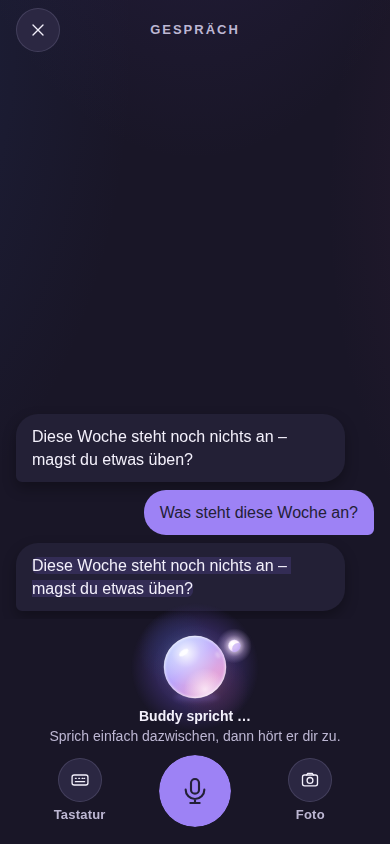
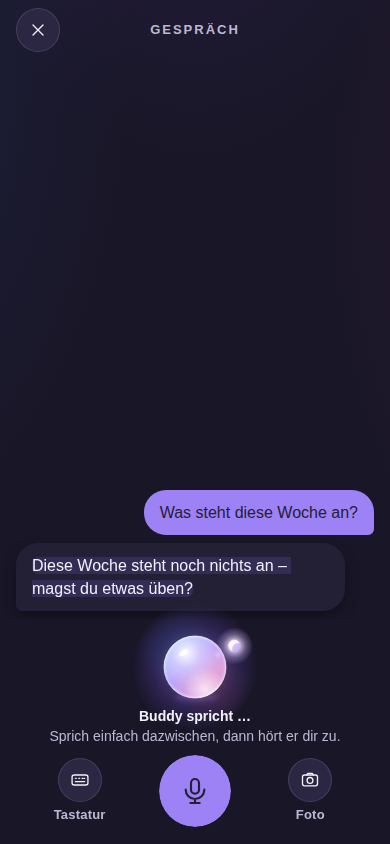
Screenshots neu: ein Austausch je Größe und Schema, Reinreden auch dunkel (#35, #41)
Claude-Session: https://claude.ai/code/session_01NuVQ4JtXgVp4yQWSokLiKq

Changed region(s): [[0.0923, 0.4929, 0.7077, 0.5545]]

diff --git a/shots/README.md b/shots/README.md
@@ -1,17 +1,15 @@
 # Screenshots — Barge-in und Sprach-Latenz (#35, #41)
 
-Aus `tests/web/talk-voice.spec.ts` und `tests/web/talk-barge.spec.ts` (Web-Walkthrough,
-echte App gegen den Dev-Stack), 390×844 und 360×740, hell und dunkel. `composite.png` zeigt
-alle nebeneinander.
+Aus `tests/web/talk-barge.spec.ts` (Web-Walkthrough, echte App gegen den Dev-Stack): je
+Telefon (390×844, 360×740) und Farbschema (hell, dunkel) eine eigene Lernerin mit genau einem
+Austausch — kein doppelter Verlauf. `composite.png` zeigt alle acht nebeneinander.
 
-- `34-talk-speaking-*` — Buddy spricht. Einzige sichtbare Änderung: die Hinweiszeile sagt
-  „Sprich einfach dazwischen, dann hört er dir zu." — nur, wenn das Barge-in-Ohr wirklich
-  einen Pegel bekommt; sonst bleibt „Tipp auf Buddy, dann hört er dir zu." (Regel 5). Passt
-  auch bei 360 auf eine Zeile.
-- `35-talk-barged-in*` — nachdem sie reingeredet hat: Buddy ist still, das Mikro läuft (der
-  bestehende Zuhör-Zustand, unverändert).
+- `34-talk-speaking-*` — Buddy spricht (Mitlese-Markierung im Text). Einzige sichtbare
+  Änderung: die Hinweiszeile sagt „Sprich einfach dazwischen, dann hört er dir zu." — nur,
+  wenn das Barge-in-Ohr wirklich einen Pegel bekommt; sonst bleibt „Tipp auf Buddy, dann hört
+  er dir zu." (Regel 5). Passt auch bei 360 auf eine Zeile.
+- `35-talk-barged-in-*` — nachdem sie reingeredet hat: Buddy ist still, die Aufnahme läuft
+  (der bestehende Zuhör-Zustand, unverändert).
 
-Jeder Zustand wurde in der Größe und im Farbschema aufgenommen, in dem der Turn begann: das
-Umschalten im Walkthrough remountet das Vollbild-Modal (das gibt es unabhängig von dieser
-Änderung, auch auf main). Die doppelte Antwort im Verlauf ist nur die mehrfach gestellte
-Testfrage.
+Dunkel wird nach dem Onboarding eingeschaltet, vor dem Turn: `app.json` startet die App hell
+(`userInterfaceStyle: "light"`), die Palette folgt dem System erst ab dessen Wechsel.
